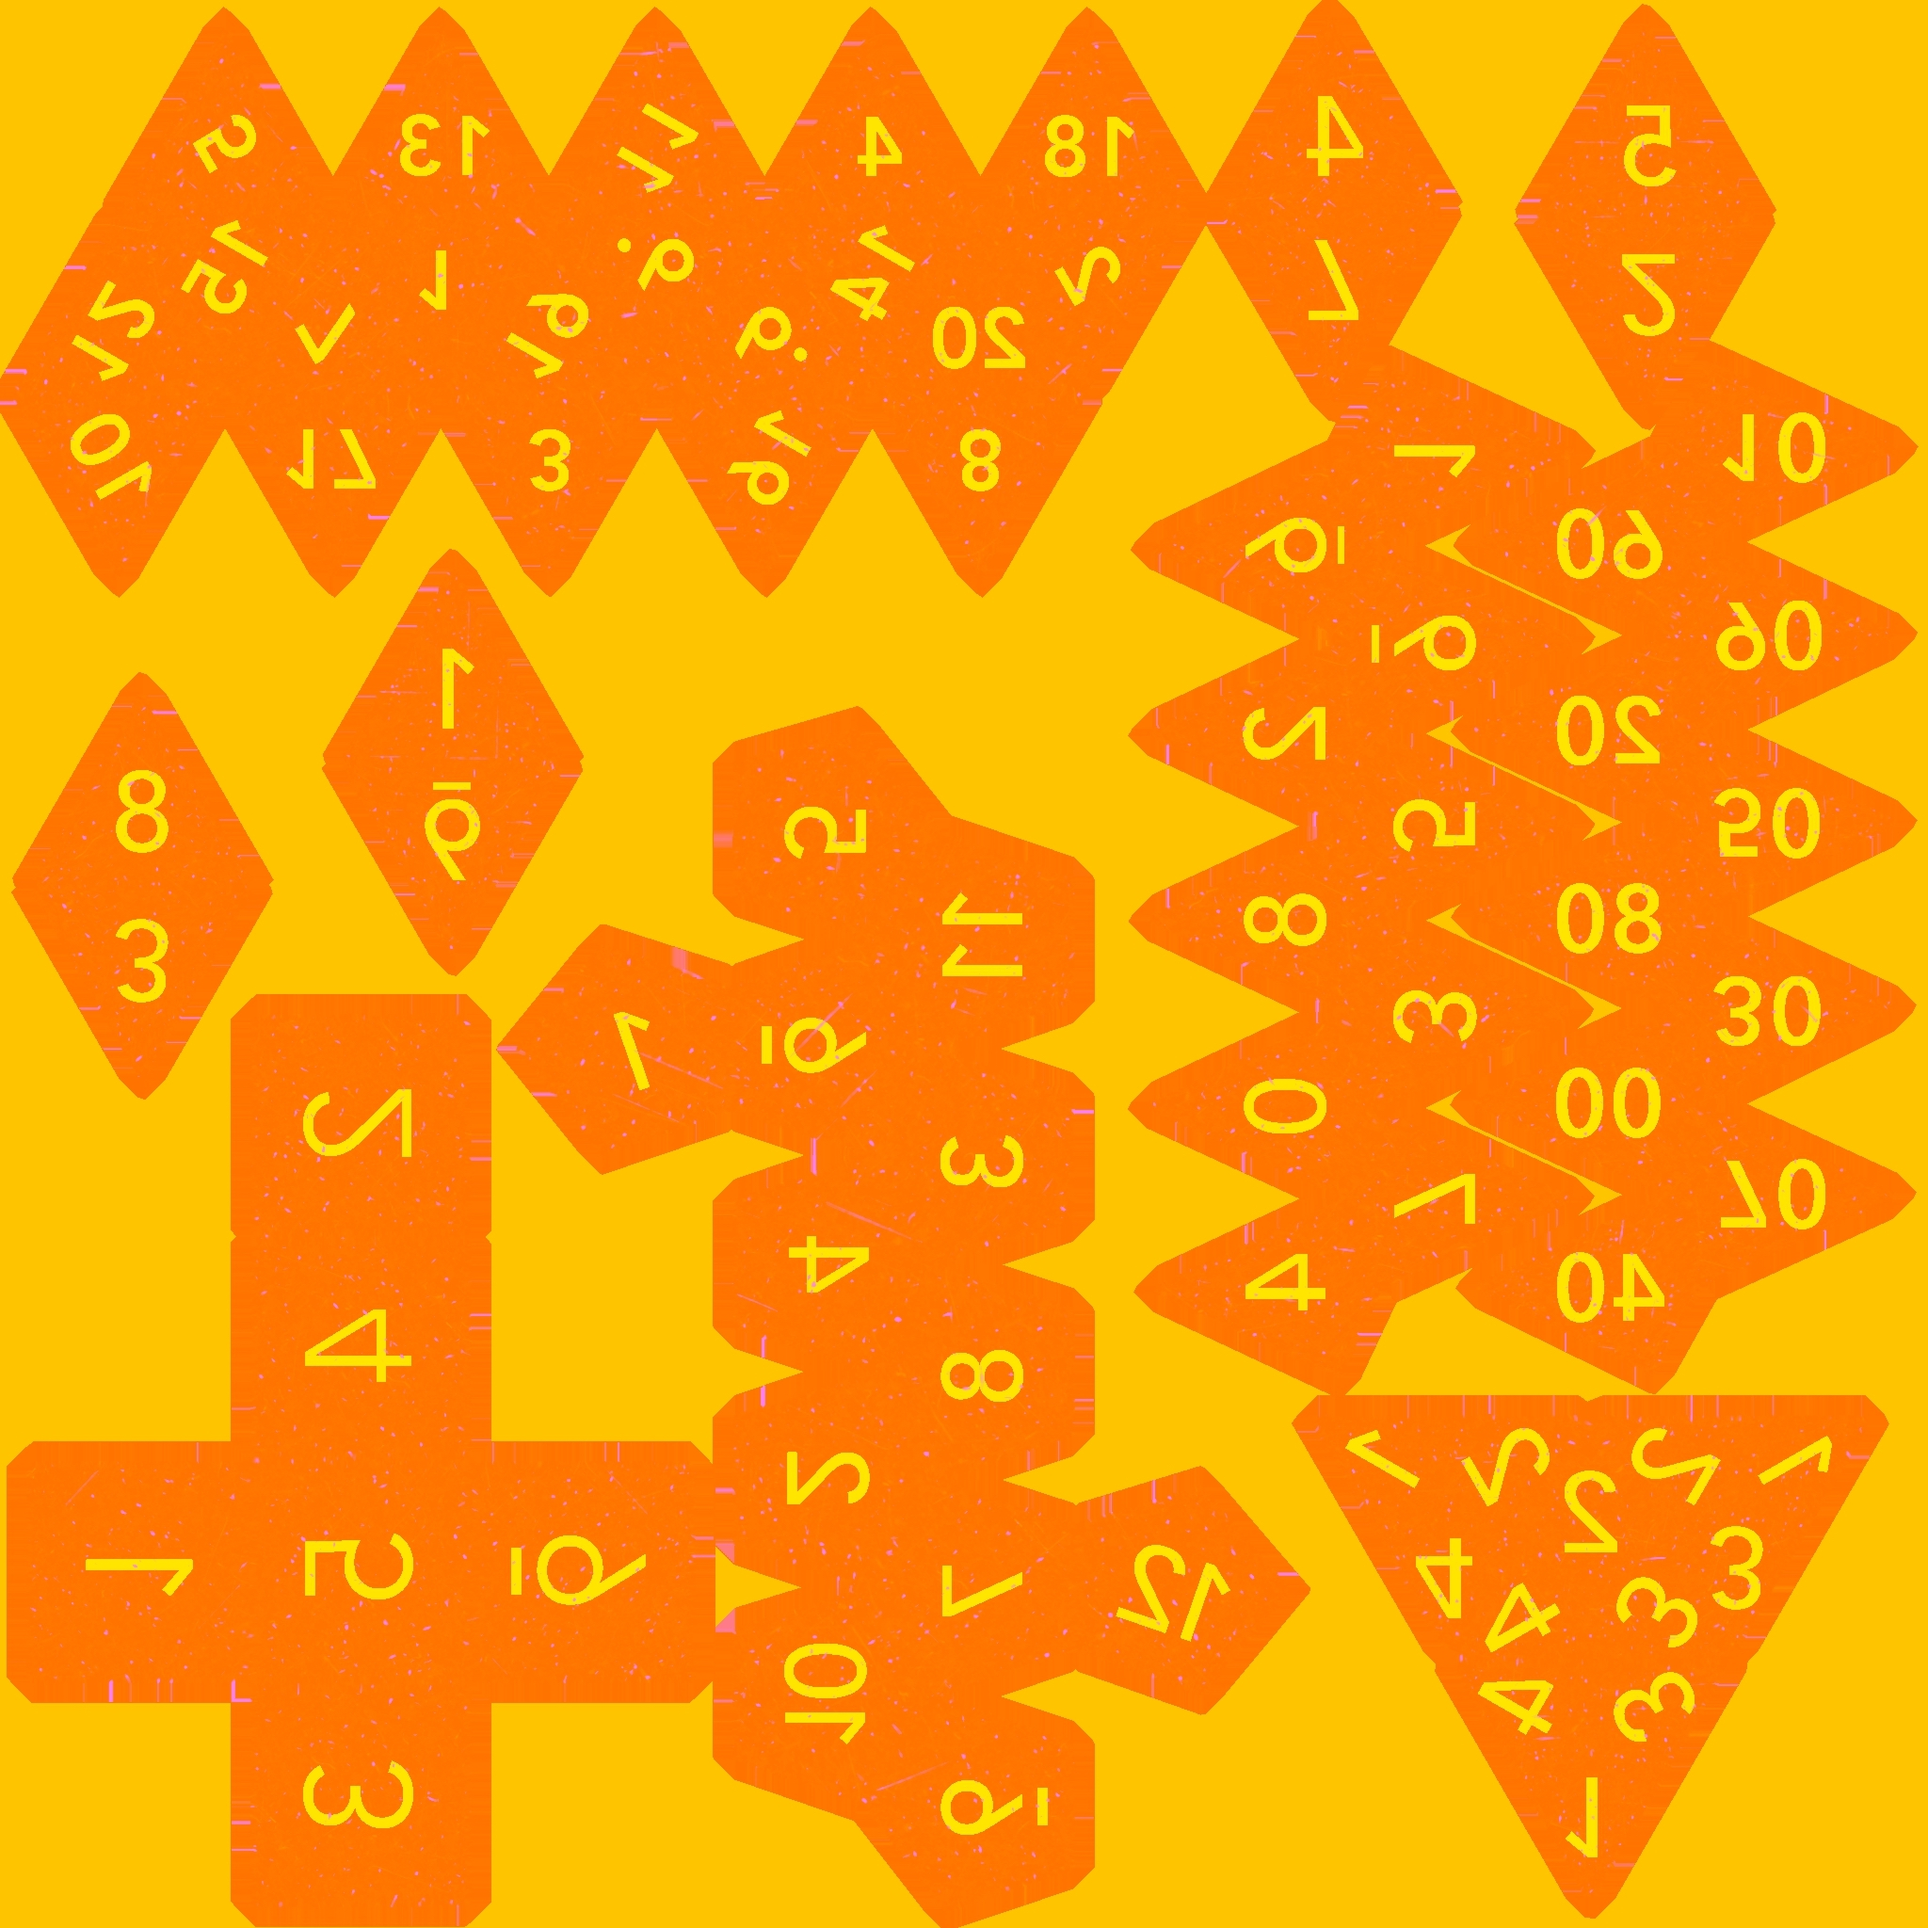
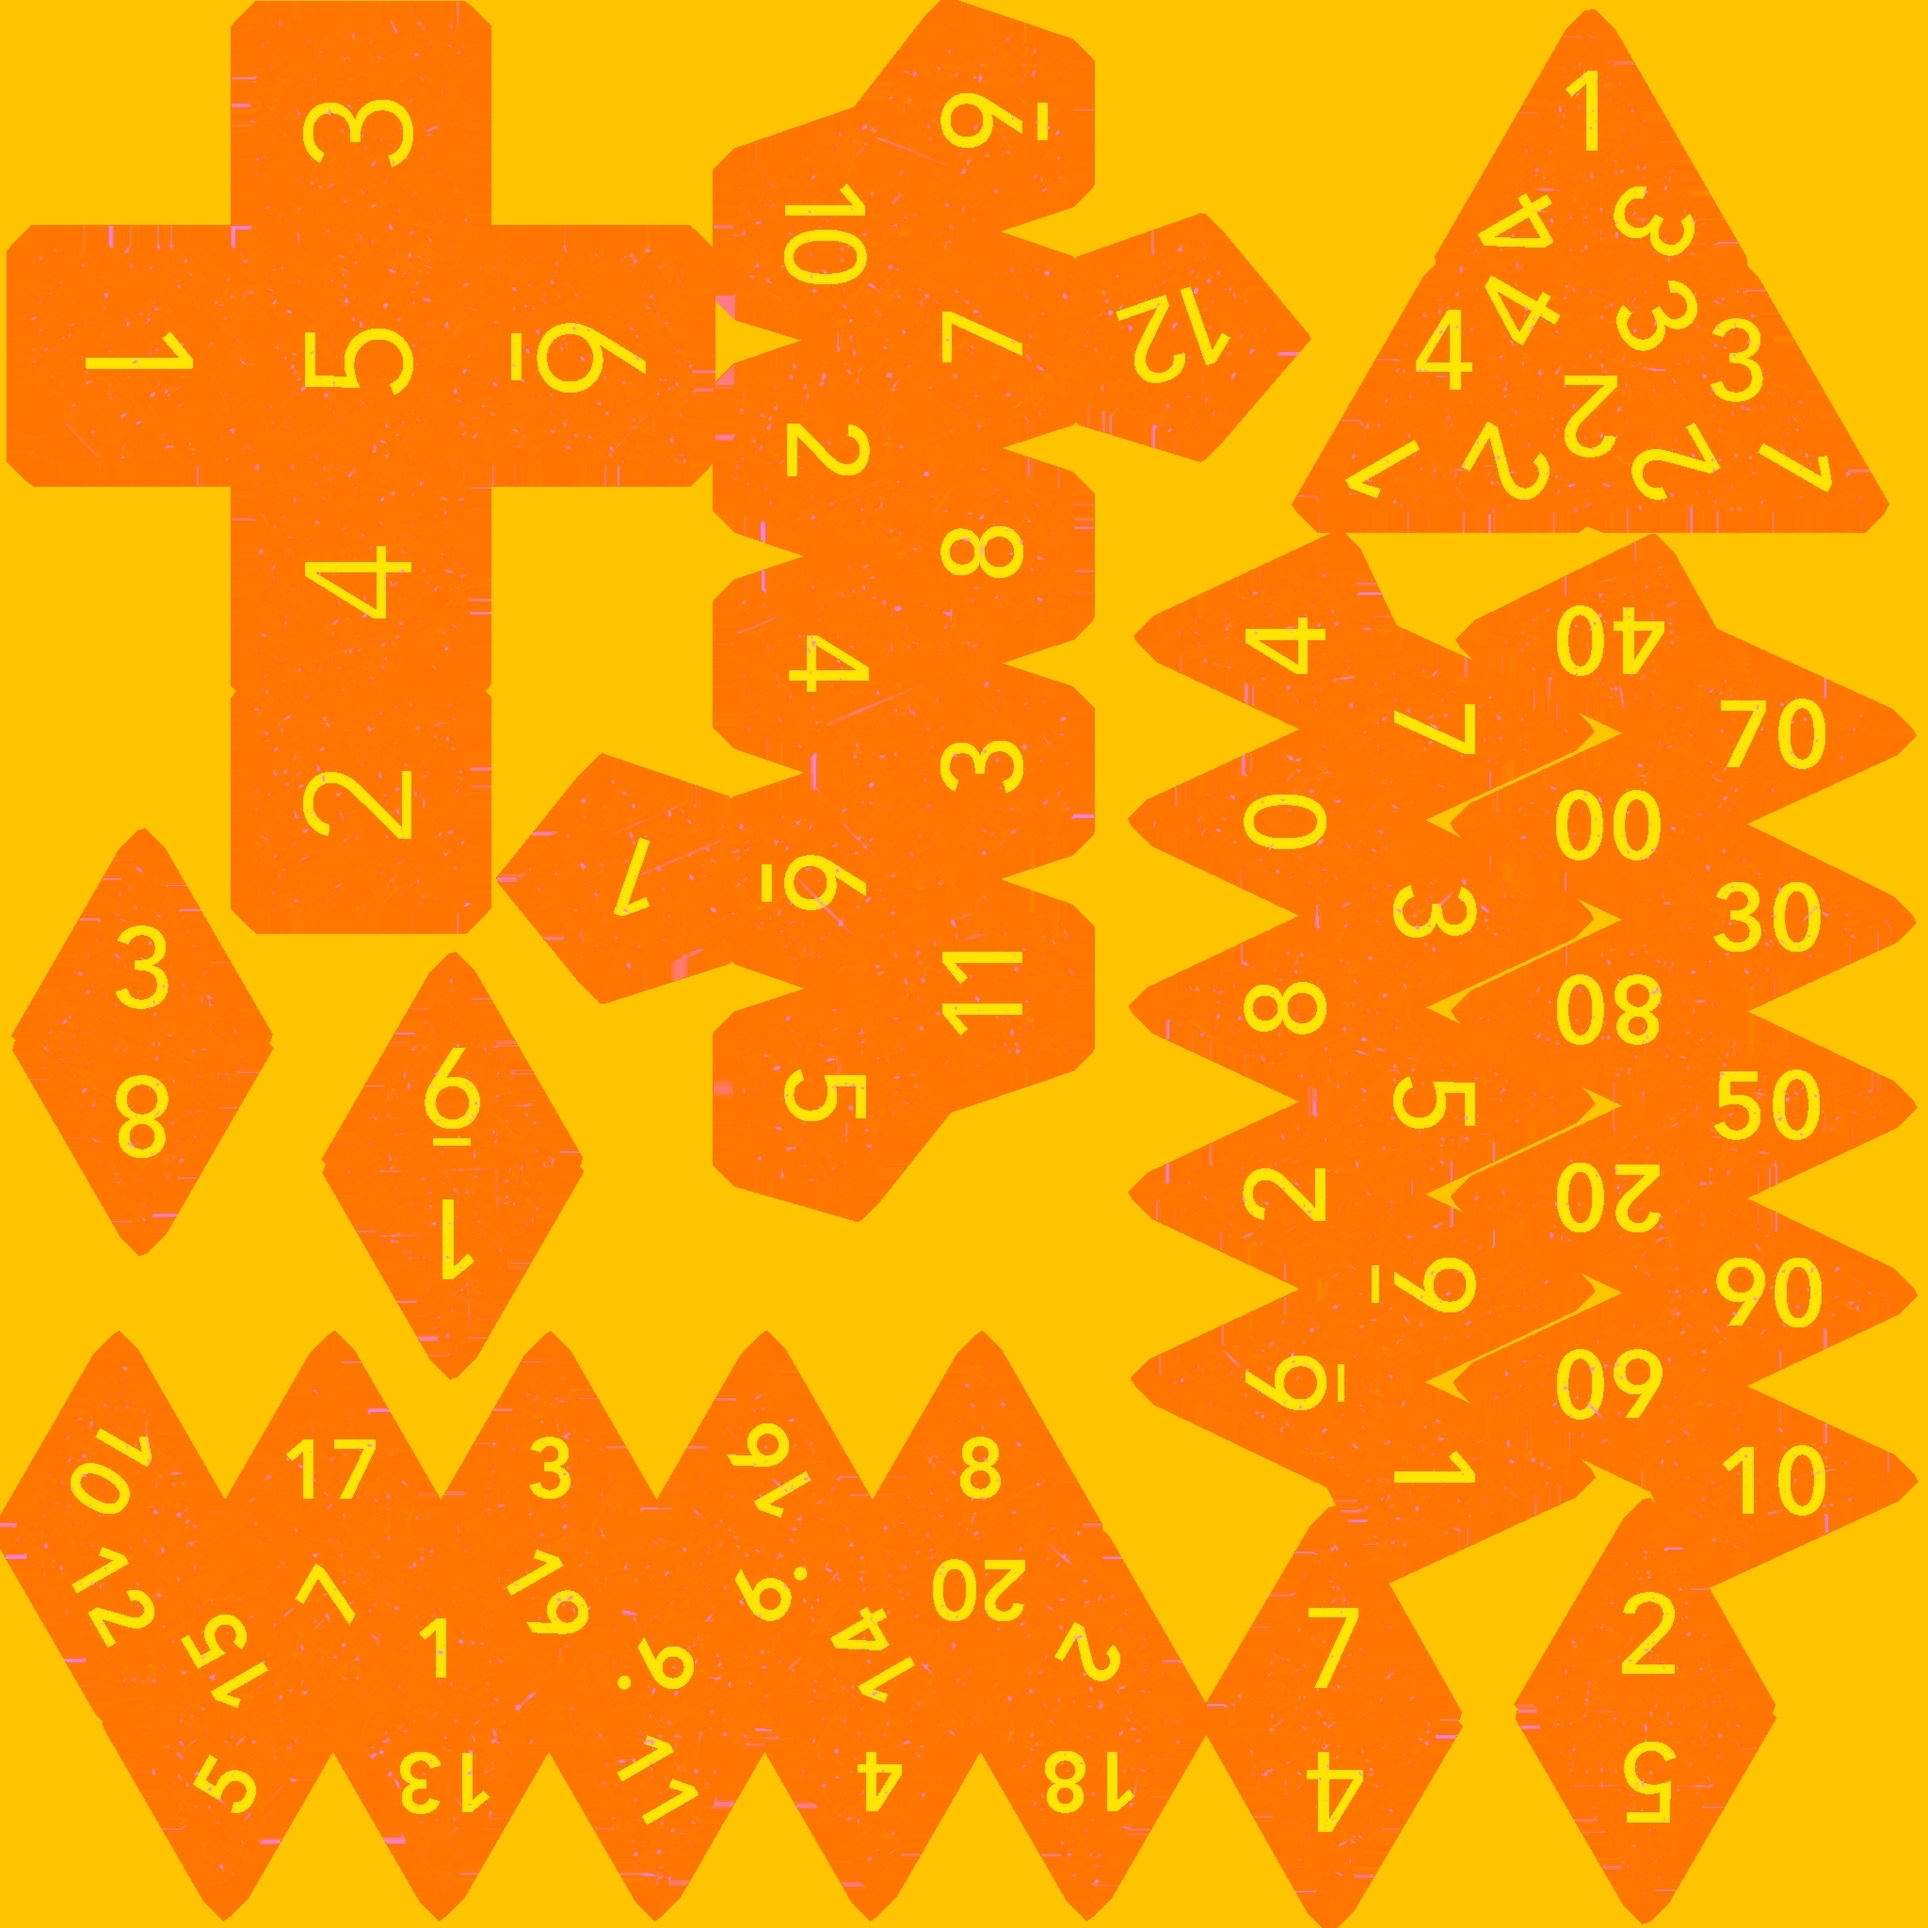
Added async / await to dice texture loading
This should fix load issues with the dice tray being blank
Also turnned off the default texture flip so all textures are now unflipped by default

diff --git a/src/dice/diceTray/DiceTray.js b/src/dice/diceTray/DiceTray.js
@@ -11,6 +11,8 @@ import doubleAlbedo from "./doubleAlbedo.jpg";
 import doubleMetalRoughness from "./doubleMetalRoughness.jpg";
 import doubleNormal from "./doubleNormal.jpg";
 
+import { importTextureAsync } from "../../helpers/babylon";
+
 class DiceTray {
   _size;
   get size() {
@@ -126,9 +128,11 @@ class DiceTray {
       "dice_tray_mat_single",
       this.scene
     );
-    singleMaterial.albedoTexture = new BABYLON.Texture(singleAlbedo);
-    singleMaterial.normalTexture = new BABYLON.Texture(singleNormal);
-    singleMaterial.metallicTexture = new BABYLON.Texture(singleMetalRoughness);
+    singleMaterial.albedoTexture = await importTextureAsync(singleAlbedo);
+    singleMaterial.normalTexture = await importTextureAsync(singleNormal);
+    singleMaterial.metallicTexture = await importTextureAsync(
+      singleMetalRoughness
+    );
     singleMaterial.useRoughnessFromMetallicTextureAlpha = false;
     singleMaterial.useRoughnessFromMetallicTextureGreen = true;
     singleMaterial.useMetallnessFromMetallicTextureBlue = true;
@@ -152,9 +156,11 @@ class DiceTray {
       "dice_tray_mat_double",
       this.scene
     );
-    doubleMaterial.albedoTexture = new BABYLON.Texture(doubleAlbedo);
-    doubleMaterial.normalTexture = new BABYLON.Texture(doubleNormal);
-    doubleMaterial.metallicTexture = new BABYLON.Texture(doubleMetalRoughness);
+    doubleMaterial.albedoTexture = await importTextureAsync(doubleAlbedo);
+    doubleMaterial.normalTexture = await importTextureAsync(doubleNormal);
+    doubleMaterial.metallicTexture = await importTextureAsync(
+      doubleMetalRoughness
+    );
     doubleMaterial.useRoughnessFromMetallicTextureAlpha = false;
     doubleMaterial.useRoughnessFromMetallicTextureGreen = true;
     doubleMaterial.useMetallnessFromMetallicTextureBlue = true;

diff --git a/src/dice/glass/GlassDice.js b/src/dice/glass/GlassDice.js
@@ -6,6 +6,8 @@ import albedo from "./albedo.jpg";
 import mask from "./mask.png";
 import normal from "./normal.jpg";
 
+import { importTextureAsync } from "../../helpers/babylon";
+
 class GlassDice extends Dice {
   static meshes;
   static material;
@@ -15,10 +17,10 @@ class GlassDice extends Dice {
     return { mass: properties.mass * 1.5, friction: properties.friction };
   }
 
-  static loadMaterial(materialName, textures, scene) {
+  static async loadMaterial(materialName, textures, scene) {
     let pbr = new BABYLON.PBRMaterial(materialName, scene);
-    pbr.albedoTexture = new BABYLON.Texture(textures.albedo);
-    pbr.normalTexture = new BABYLON.Texture(textures.normal);
+    pbr.albedoTexture = await importTextureAsync(textures.albedo);
+    pbr.normalTexture = await importTextureAsync(textures.normal);
     pbr.roughness = 0.25;
     pbr.metallic = 0;
     pbr.subSurface.isRefractionEnabled = true;
@@ -29,7 +31,7 @@ class GlassDice extends Dice {
     pbr.subSurface.minimumThickness = 10;
     pbr.subSurface.maximumThickness = 10;
     pbr.subSurface.tintColor = new BABYLON.Color3(43 / 255, 1, 115 / 255);
-    pbr.subSurface.thicknessTexture = new BABYLON.Texture(textures.mask);
+    pbr.subSurface.thicknessTexture = await importTextureAsync(textures.mask);
     pbr.subSurface.useMaskFromThicknessTexture = true;
 
     return pbr;
@@ -37,7 +39,7 @@ class GlassDice extends Dice {
 
   static async load(scene) {
     if (!this.material) {
-      this.material = this.loadMaterial(
+      this.material = await this.loadMaterial(
         "glass_pbr",
         { albedo, mask, normal },
         scene

diff --git a/src/dice/gemstone/GemstoneDice.js b/src/dice/gemstone/GemstoneDice.js
@@ -6,6 +6,8 @@ import albedo from "./albedo.jpg";
 import metalRoughness from "./metalRoughness.jpg";
 import normal from "./normal.jpg";
 
+import { importTextureAsync } from "../../helpers/babylon";
+
 class GemstoneDice extends Dice {
   static meshes;
   static material;
@@ -15,11 +17,11 @@ class GemstoneDice extends Dice {
     return { mass: properties.mass * 1.5, friction: properties.friction };
   }
 
-  static loadMaterial(materialName, textures, scene) {
+  static async loadMaterial(materialName, textures, scene) {
     let pbr = new BABYLON.PBRMaterial(materialName, scene);
-    pbr.albedoTexture = new BABYLON.Texture(textures.albedo);
-    pbr.normalTexture = new BABYLON.Texture(textures.normal);
-    pbr.metallicTexture = new BABYLON.Texture(textures.metalRoughness);
+    pbr.albedoTexture = await importTextureAsync(textures.albedo);
+    pbr.normalTexture = await importTextureAsync(textures.normal);
+    pbr.metallicTexture = await importTextureAsync(textures.metalRoughness);
     pbr.useRoughnessFromMetallicTextureAlpha = false;
     pbr.useRoughnessFromMetallicTextureGreen = true;
     pbr.useMetallnessFromMetallicTextureBlue = true;
@@ -35,7 +37,7 @@ class GemstoneDice extends Dice {
 
   static async load(scene) {
     if (!this.material) {
-      this.material = this.loadMaterial(
+      this.material = await this.loadMaterial(
         "gemstone_pbr",
         { albedo, metalRoughness, normal },
         scene

diff --git a/src/dice/Dice.js b/src/dice/Dice.js
@@ -9,6 +9,7 @@ import d20Source from "./shared/d20.glb";
 import d100Source from "./shared/d100.glb";
 
 import { lerp } from "../helpers/shared";
+import { importTextureAsync } from "../helpers/babylon";
 
 const minDiceRollSpeed = 600;
 const maxDiceRollSpeed = 800;
@@ -46,11 +47,11 @@ class Dice {
     return mesh;
   }
 
-  static loadMaterial(materialName, textures, scene) {
+  static async loadMaterial(materialName, textures, scene) {
     let pbr = new BABYLON.PBRMaterial(materialName, scene);
-    pbr.albedoTexture = new BABYLON.Texture(textures.albedo);
-    pbr.normalTexture = new BABYLON.Texture(textures.normal);
-    pbr.metallicTexture = new BABYLON.Texture(textures.metalRoughness);
+    pbr.albedoTexture = await importTextureAsync(textures.albedo);
+    pbr.normalTexture = await importTextureAsync(textures.normal);
+    pbr.metallicTexture = await importTextureAsync(textures.metalRoughness);
     pbr.useRoughnessFromMetallicTextureAlpha = false;
     pbr.useRoughnessFromMetallicTextureGreen = true;
     pbr.useMetallnessFromMetallicTextureBlue = true;

diff --git a/src/components/dice/DiceTrayOverlay.js b/src/components/dice/DiceTrayOverlay.js
@@ -36,26 +36,12 @@ function DiceTrayOverlay({ isOpen }) {
 
   function handleAssetLoadStart() {
     assetLoadStart();
-    sceneKeepAwakeRef.current++;
   }
 
   function handleAssetLoadFinish() {
     assetLoadFinish();
-    sceneKeepAwakeRef.current--;
+    forceRender();
   }
-
-  // Force render when loading assets
-  useEffect(() => {
-    if (isLoading) {
-      sceneKeepAwakeRef.current++;
-    }
-    return () => {
-      if (isLoading) {
-        // eslint-disable-next-line react-hooks/exhaustive-deps
-        sceneKeepAwakeRef.current--;
-      }
-    };
-  }, [isLoading]);
 
   // Forces rendering for 1 second
   function forceRender() {

diff --git a/src/helpers/babylon.js b/src/helpers/babylon.js
@@ -1,0 +1,20 @@
+import * as BABYLON from "babylonjs";
+
+// Turn texture load into an async function so it can be awaited
+export async function importTextureAsync(url) {
+  return new Promise((resolve, reject) => {
+    let texture = new BABYLON.Texture(
+      url,
+      null,
+      undefined,
+      false,
+      undefined,
+      () => {
+        resolve(texture);
+      },
+      () => {
+        reject("Unable to load texture");
+      }
+    );
+  });
+}

diff --git a/src/dice/sunrise/SunriseDice.js b/src/dice/sunrise/SunriseDice.js
@@ -10,7 +10,7 @@ class SunriseDice extends Dice {
 
   static async load(scene) {
     if (!this.material) {
-      this.material = this.loadMaterial(
+      this.material = await this.loadMaterial(
         "sunrise_pbr",
         { albedo, metalRoughness, normal },
         scene

diff --git a/src/dice/nebula/NebulaDice.js b/src/dice/nebula/NebulaDice.js
@@ -10,7 +10,7 @@ class NebulaDice extends Dice {
 
   static async load(scene) {
     if (!this.material) {
-      this.material = this.loadMaterial(
+      this.material = await this.loadMaterial(
         "neubula_pbr",
         { albedo, metalRoughness, normal },
         scene

diff --git a/src/dice/galaxy/GalaxyDice.js b/src/dice/galaxy/GalaxyDice.js
@@ -10,7 +10,7 @@ class GalaxyDice extends Dice {
 
   static async load(scene) {
     if (!this.material) {
-      this.material = this.loadMaterial(
+      this.material = await this.loadMaterial(
         "galaxy_pbr",
         { albedo, metalRoughness, normal },
         scene

diff --git a/src/dice/sunset/SunsetDice.js b/src/dice/sunset/SunsetDice.js
@@ -10,7 +10,7 @@ class SunsetDice extends Dice {
 
   static async load(scene) {
     if (!this.material) {
-      this.material = this.loadMaterial(
+      this.material = await this.loadMaterial(
         "sunset_pbr",
         { albedo, metalRoughness, normal },
         scene

diff --git a/src/dice/walnut/WalnutDice.js b/src/dice/walnut/WalnutDice.js
@@ -33,7 +33,7 @@ class WalnutDice extends Dice {
 
   static async load(scene) {
     if (!this.material) {
-      this.material = this.loadMaterial(
+      this.material = await this.loadMaterial(
         "walnut_pbr",
         { albedo, metalRoughness, normal },
         scene

diff --git a/src/dice/iron/IronDice.js b/src/dice/iron/IronDice.js
@@ -15,7 +15,7 @@ class IronDice extends Dice {
 
   static async load(scene) {
     if (!this.material) {
-      this.material = this.loadMaterial(
+      this.material = await this.loadMaterial(
         "iron_pbr",
         { albedo, metalRoughness, normal },
         scene
